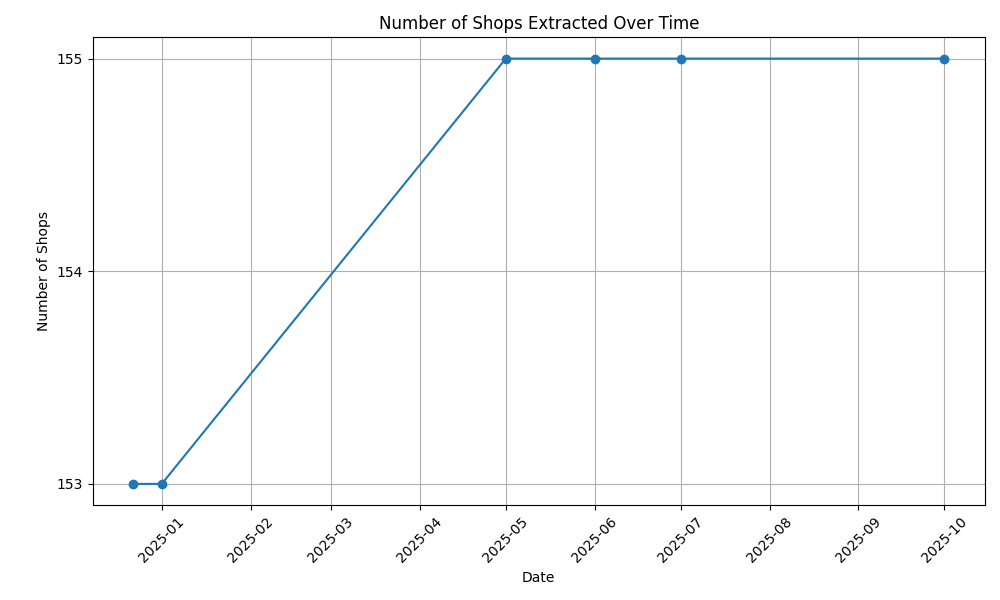
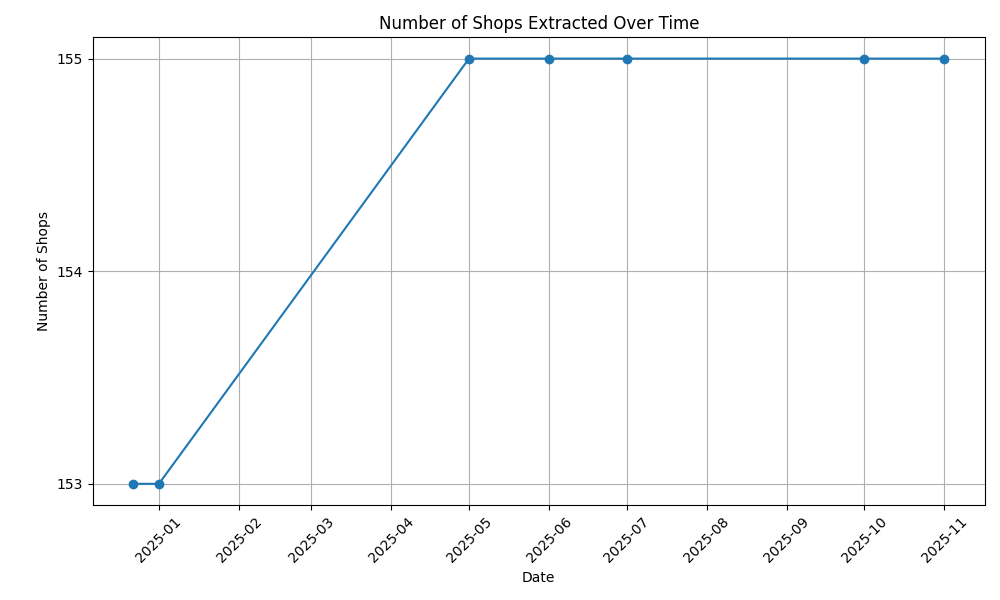
Stokomani 2025-11-01

diff --git a/Stokomani/README.md b/Stokomani/README.md
@@ -1,10 +1,10 @@
 # Stokomani 🏷
 
-**Data last updated on: 2025-10-01**
+**Data last updated on: 2025-11-01**
 
 Data scraped from: [Stokomani](https://www.stokomani.fr)
 
-![History Diagram](shop_count_history.png?img_date=2025-10-01)
+![History Diagram](shop_count_history.png?img_date=2025-11-01)
 
 ## 📅 Use the Latest Data Scraped Each Month
 
